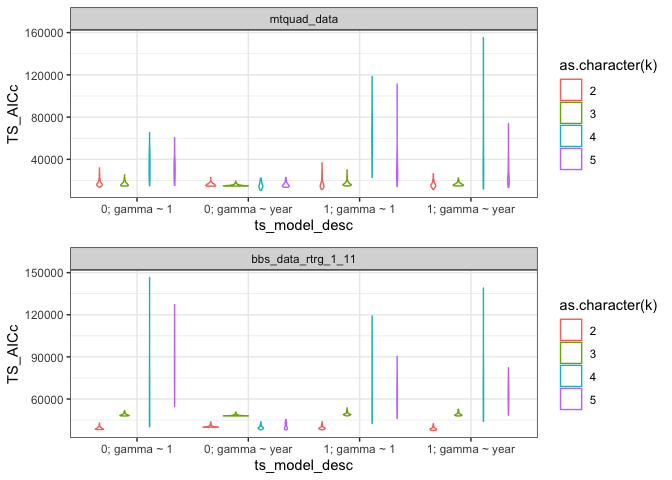
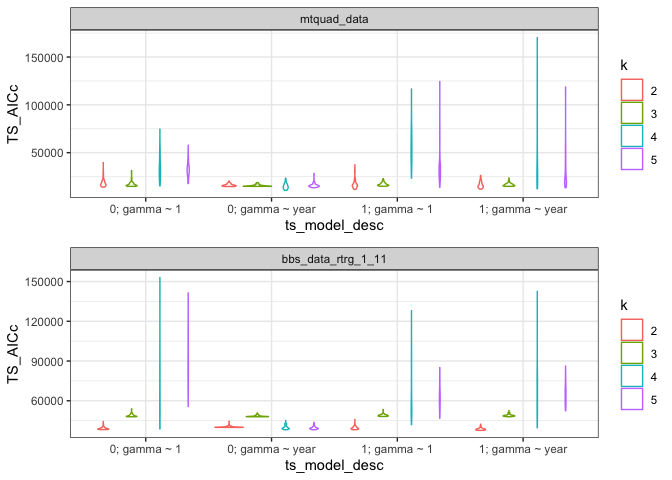
plots are....almost there

diff --git a/analysis/reports/full_likelihood_drake.md b/analysis/reports/full_likelihood_drake.md
@@ -7,7 +7,8 @@ Renata Diaz
 full_lik_expanded <- lapply(full_lik_results, FUN = expand_full_lik_results) %>%
     dplyr::bind_rows(.id = "data_name") %>%
     dplyr::mutate(data_name = vapply(data_name, FUN = function(X) return(unlist(strsplit(X, split = "lda_"))[[2]]), FUN.VALUE = "mtquad"),
-                  ts_model_desc = paste0(changepoints, "; ", formula))
+                  ts_model_desc = paste0(changepoints, "; ", formula),
+                  k = as.character(k))
 ```
 
 ``` r
@@ -15,7 +16,7 @@ library(ggplot2)
 
 
 make_aic_plot <- function(model_data) {
-    ggplot(data = model_data, aes(x = ts_model_desc, y = TS_AICc, colour = as.character(k))) + 
+    ggplot(data = model_data, aes(x = ts_model_desc, y = TS_AICc, colour = k)) + 
         geom_violin(stat = "ydensity") +
         theme_bw() +
         facet_wrap(facets = data_name ~ .)
@@ -28,3 +29,32 @@ gridExtra::grid.arrange(grobs = AIC_plots, ncol = 1)
 ```
 
 ![](full_likelihood_drake_files/figure-markdown_github/plot%20AICcs-1.png)
+
+``` r
+pred_results <- readd(pred_results, cache = cache)
+
+plot_obs_pred <- function(obs_pred_data) {
+    
+    obs_pred_plot <- ggplot2::ggplot(data = obs_pred_data, aes(x = timestep, y = abundance, color = source)) +
+        ggplot2::geom_line() +
+        ggplot2::theme_bw() +
+        ggplot2::facet_wrap(facets = species ~ .) +
+        ggplot2::ggtitle(obs_pred_data$model_name[1])
+
+    return(obs_pred_plot)
+}
+
+
+plot_all_model_preds <- function(list_of_predictions) {
+    all_plots <- lapply(list_of_predictions$prediction, FUN = plot_obs_pred)
+    return(all_plots)
+}
+
+all_plots_all_pred <- lapply(pred_results, plot_all_model_preds)
+
+for(i in 1:length(all_plots_all_pred)) {
+gridExtra::grid.arrange(grobs = all_plots_all_pred[[i]], ncol = 1)
+}
+```
+
+![](full_likelihood_drake_files/figure-markdown_github/plot%20observed%20v%20predicted-1.png)![](full_likelihood_drake_files/figure-markdown_github/plot%20observed%20v%20predicted-2.png)
